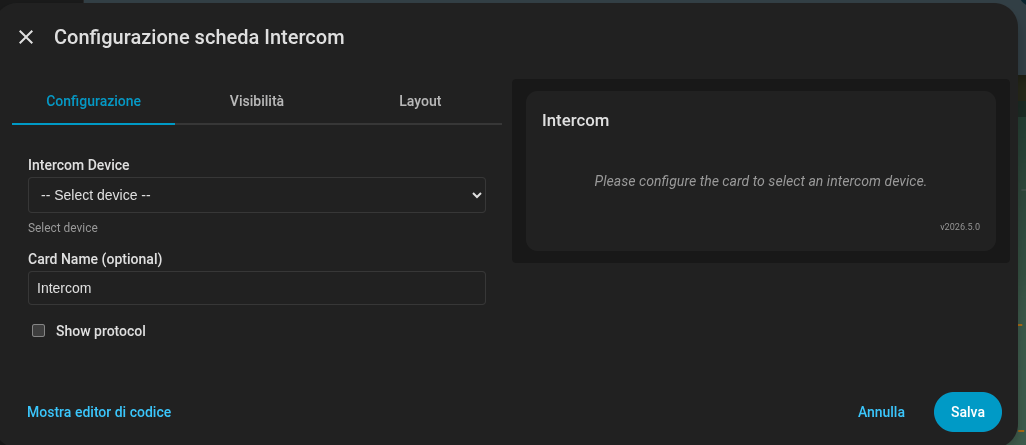
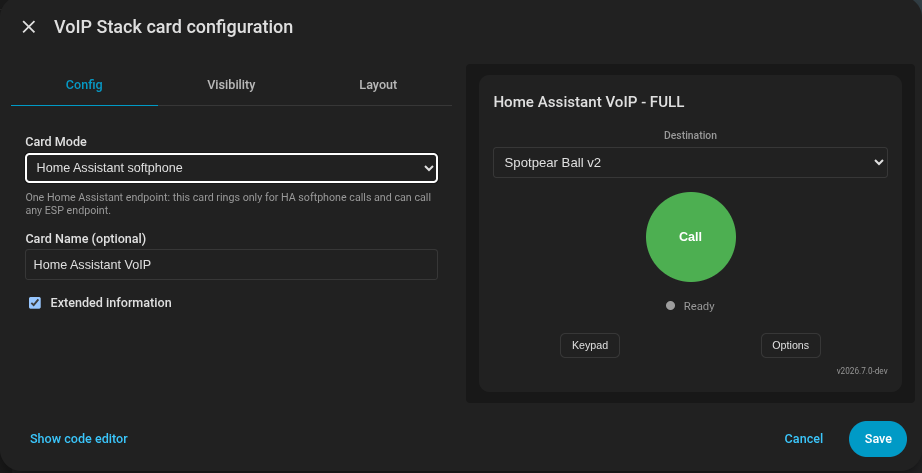
Polish VoIP services and setup docs

diff --git a/esphome/components/voip_stack/__init__.py b/esphome/components/voip_stack/__init__.py
@@ -63,7 +63,6 @@ CONF_REASON = "reason"
 
 # SIP signaling transport selection. RTP media is always UDP.
 CONF_TRANSPORT = "transport"
-CONF_SIP_TRANSPORT = "sip_transport"
 CONF_SIP_PORT = "sip_port"
 CONF_RTP_PORT = "rtp_port"
 CONF_USE_HA_AS_FIRST_CONTACT = "use_ha_as_first_contact"
@@ -407,7 +406,6 @@ PHONEBOOK_CONTACT_SCHEMA = cv.Schema(
         cv.Optional(CONF_PORT, default=5060): cv.port,
         cv.Optional(CONF_RTP_PORT_ACTION, default=40000): cv.port,
         cv.Optional(CONF_TRANSPORT): cv.one_of(TRANSPORT_UDP, TRANSPORT_TCP, lower=True),
-        cv.Optional(CONF_SIP_TRANSPORT): cv.one_of(TRANSPORT_UDP, TRANSPORT_TCP, lower=True),
     }
 )
 
@@ -428,7 +426,7 @@ def _static_contact_entry(contact, default_transport: str) -> str:
     ip = contact.get(CONF_IP, "")
     if not ip:
         return name
-    transport = contact.get(CONF_TRANSPORT) or contact.get(CONF_SIP_TRANSPORT) or default_transport
+    transport = contact.get(CONF_TRANSPORT) or default_transport
     transport = "sip_tcp" if transport == TRANSPORT_TCP else "sip_udp"
     return f"{name}|{ip}|{contact[CONF_PORT]}|{contact[CONF_RTP_PORT_ACTION]}|{transport}"
 
@@ -1170,7 +1168,6 @@ ADD_CONTACT_SCHEMA = cv.Schema(
         cv.Optional(CONF_PORT, default=5060): cv.templatable(cv.port),
         cv.Optional(CONF_RTP_PORT_ACTION, default=40000): cv.templatable(cv.port),
         cv.Optional(CONF_TRANSPORT): cv.templatable(cv.one_of(TRANSPORT_UDP, TRANSPORT_TCP, lower=True)),
-        cv.Optional(CONF_SIP_TRANSPORT): cv.templatable(cv.one_of(TRANSPORT_UDP, TRANSPORT_TCP, lower=True)),
     }
 )
 
@@ -1198,19 +1195,18 @@ async def _add_contact_action_to_code(config, action_id, template_arg, args):
     cg.add(var.set_port(templ_port))
     templ_rtp_port = await cg.templatable(config[CONF_RTP_PORT_ACTION], args, cg.uint16)
     cg.add(var.set_rtp_port(templ_rtp_port))
-    if CONF_TRANSPORT in config or CONF_SIP_TRANSPORT in config:
-        templ_transport = await cg.templatable(config.get(CONF_TRANSPORT, config.get(CONF_SIP_TRANSPORT)), args, cg.std_string)
+    if CONF_TRANSPORT in config:
+        templ_transport = await cg.templatable(config[CONF_TRANSPORT], args, cg.std_string)
         cg.add(var.set_sip_transport(templ_transport))
     return var
 
 
-for _add_contact_action_name in ("voip_stack.add_contact", "voip_stack.add_contacts"):
-    automation.register_action(
-        _add_contact_action_name,
-        AddContactAction,
-        cv.All(ADD_CONTACT_SCHEMA, _validate_add_contact_action),
-        synchronous=True,
-    )(_add_contact_action_to_code)
+automation.register_action(
+    "voip_stack.add_contact",
+    AddContactAction,
+    cv.All(ADD_CONTACT_SCHEMA, _validate_add_contact_action),
+    synchronous=True,
+)(_add_contact_action_to_code)
 
 _register_templated_action(
     "voip_stack.remove_contact",

diff --git a/custom_components/voip_stack/phonebook_services.py b/custom_components/voip_stack/phonebook_services.py
@@ -36,16 +36,12 @@ def build_phonebook_service_handlers(
             key: metadata_value(key)
             for key in (
                 "transport",
-                "sip_transport",
-                "signaling_transport",
-                "sip_port",
                 "rtp_port",
                 "tx_rate",
                 "rx_rate",
                 "tx_formats",
                 "rx_formats",
                 "max_payload_bytes",
-                "audio_mode",
             )
             if key in call.data and metadata_value(key) is not None
         }
@@ -53,7 +49,7 @@ def build_phonebook_service_handlers(
         sip_uri = str(call.data.get("sip_uri") or "").strip()
         extension = str(call.data.get("extension") or "").strip()
         number = str(call.data.get("number") or "").strip()
-        port = int(call.data.get("port") or call.data.get("sip_port") or 0)
+        port = int(call.data.get("port") or 0)
         entry = RosterEntry(
             id=entry_id,
             name=name,

diff --git a/custom_components/voip_stack/services.py b/custom_components/voip_stack/services.py
@@ -95,16 +95,12 @@ async def async_register_services(hass: HomeAssistant, handlers: dict[str, objec
             vol.Optional("ha_bridge", default=False): cv.boolean,
             vol.Optional("transport", default=""): vol.Any("", vol.In(["tcp", "udp"])),
             vol.Optional("port"): vol.Coerce(int),
-            vol.Optional("sip_transport", default=""): vol.Any("", vol.In(["tcp", "udp"])),
-            vol.Optional("signaling_transport", default=""): vol.Any("", vol.In(["tcp", "udp"])),
-            vol.Optional("sip_port"): vol.Coerce(int),
             vol.Optional("rtp_port"): vol.Coerce(int),
             vol.Optional("tx_rate"): vol.Any("auto", vol.Coerce(int)),
             vol.Optional("rx_rate"): vol.Any("auto", vol.Coerce(int)),
             vol.Optional("tx_formats"): vol.Any(cv.string, [cv.string]),
             vol.Optional("rx_formats"): vol.Any(cv.string, [cv.string]),
             vol.Optional("max_payload_bytes"): vol.Coerce(int),
-            vol.Optional("audio_mode", default=""): cv.string,
         },
         extra=vol.PREVENT_EXTRA,
     )

diff --git a/esphome/components/voip_stack/voip_settings.cpp b/esphome/components/voip_stack/voip_settings.cpp
@@ -134,9 +134,6 @@ bool parse_json_roster_slot(const cJSON *obj, JsonRosterSlot *slot) {
     slot->sip_transport = Phonebook::trim(json_metadata_string(obj, "transport"));
   }
   if (slot->sip_transport.empty()) {
-    slot->sip_transport = Phonebook::trim(json_metadata_string(obj, "signaling_transport"));
-  }
-  if (slot->sip_transport.empty()) {
     slot->sip_transport = Phonebook::trim(json_string(obj, "sip_transport"));
   }
   if (slot->sip_transport.empty()) {

diff --git a/README.md b/README.md
@@ -57,6 +57,20 @@ _Runtime demo: browser softphone, ESP call state and audio controls moving toget
 | Incoming external calls | Register a provider/PBX trunk. | External calls can ring HA, follow DTMF routing, or be forwarded to ESPs/local contacts. |
 | Voice Assistant calling | Enable the optional VoIP Stack Assist intents. | Satellites can call contacts, answer, decline or hang up by voice. |
 
+### One-Way Audio Endpoints
+
+VoIP Stack also supports intentionally one-way audio devices:
+
+- **mic-only** endpoints send microphone audio but do not play remote audio;
+- **speaker-only** endpoints play incoming audio but do not transmit a
+  microphone stream;
+- **control-only** endpoints keep SIP signaling, call state and phonebook
+  behavior without media.
+
+This is useful for boards with only one audio direction populated, external
+amplifiers, paging speakers, monitor microphones or custom installations where
+full-duplex hardware is not available.
+
 ## Table of Contents
 
 - [What Can You Build With It?](#what-can-you-build-with-it)
@@ -318,10 +332,11 @@ Runtime ESP automations can still mutate the local dial plan when needed:
 
 ```yaml
 on_press:
-  - voip_stack.add_contacts:
+  - voip_stack.add_contact:
       id: phone
       name: "Temporary Desk"
       ip: "192.168.1.55"
+      port: 5060
       transport: udp
 ```
 
@@ -407,7 +422,28 @@ _After restart, add the VoIP Stack integration from Home Assistant Settings._
 
 ![VoIP Stack config flow](docs/images/voip-stack-config-flow.png)
 
-_The config flow sets the HA SIP/RTP ports and optional features._
+_The config flow sets the HA SIP/RTP ports, local VoIP features and optional trunk routing._
+
+Recommended first setup:
+
+- **SIP port**: keep `5060` unless another SIP service already uses it. HA
+  listens on both SIP/UDP and SIP/TCP on this port.
+- **RTP port**: keep `40000` unless that UDP range conflicts with another
+  service. HA uses it as the base for softphone and bridge media.
+- **Advertise host**: leave empty on a normal LAN. Set it only when HA must
+  publish a specific reachable IP/host, for example LXC, Docker, VPN,
+  multihomed hosts or routed networks.
+- **Assist intents**: enable if you want Home Assistant Assist phrases such as
+  call, answer, decline and hang up.
+- **Debug mode**: keep disabled for normal use. Enable only while collecting
+  SIP/RTP diagnostics.
+- **Trunk enabled**: leave disabled unless you want HA to register to a
+  provider/PBX account for external inbound/outbound calls.
+
+When trunk is enabled, the next step asks for provider/PBX credentials. The
+DTMF timeout controls incoming external calls: `0` skips DTMF collection and
+rings HA immediately; a value from `1` to `10` seconds lets callers dial a
+route such as `101` before HA falls back to the default target.
 
 The integration automatically registers the Lovelace card, no manual frontend setup needed.
 
@@ -712,11 +748,13 @@ data:
   reason: "DND"
 ```
 
-Contact mutation is not exposed as HA-callable ESPHome services in the standard
-packages. Use `sensor.voip_phonebook` for normal sync, or call the native
-`voip_stack.set_contacts` / `add_contact` / `remove_contact` /
-`flush_contacts` actions from YAML scripts when you intentionally need local
-manual mutation.
+The standard packages also expose ESPHome native API actions such as
+`esphome.<slug>_add_contact`, `esphome.<slug>_remove_contact`,
+`esphome.<slug>_set_contacts`, `esphome.<slug>_flush_contacts` and
+`esphome.<slug>_update_contacts`. Those mutate only that ESP's local phonebook
+mirror and are meant for offline devices, diagnostics or custom YAML logic.
+For normal installs, manage the central roster with HA `voip_stack.*`
+phonebook services and let HA push the canonical JSON to every online ESP.
 
 See [docs/PHONEBOOK_PROTOCOL.md](docs/PHONEBOOK_PROTOCOL.md) for the full contract.
 

diff --git a/esphome/components/voip_stack/README.md b/esphome/components/voip_stack/README.md
@@ -207,12 +207,15 @@ contact is a logical target that can later be upgraded by the HA roster or
 routed through HA.
 
 Runtime YAML automations can mutate the local dial plan with
-`voip_stack.add_contact`, `voip_stack.add_contacts`,
-`voip_stack.remove_contact`, `voip_stack.set_contacts` and
-`voip_stack.flush_contacts`. Use those for custom local behavior only; HA
+`voip_stack.add_contact`, `voip_stack.remove_contact`,
+`voip_stack.set_contacts` and `voip_stack.flush_contacts`. The standard
+packages expose those through ESPHome native API actions named
+`esphome.<slug>_add_contact`, `esphome.<slug>_remove_contact`,
+`esphome.<slug>_set_contacts`, `esphome.<slug>_flush_contacts` and
+`esphome.<slug>_update_contacts`. Use them for custom local behavior only; HA
 central contacts should be managed with HA `voip_stack.add_contact`,
-`voip_stack.remove_contact`, `voip_stack.set_contacts`, `voip_stack.clear_contacts`
-and `voip_stack.push_phonebook` services.
+`voip_stack.remove_contact`, `voip_stack.set_contacts`,
+`voip_stack.clear_contacts` and `voip_stack.push_phonebook` services.
 
 Each ESP publishes an `voip_endpoint` text sensor. Home Assistant builds the
 central `sensor.voip_phonebook` from those endpoints and adds itself as the

diff --git a/docs/PHONEBOOK_PROTOCOL.md b/docs/PHONEBOOK_PROTOCOL.md
@@ -27,9 +27,10 @@ Runtime actions use the same model:
 
 ```yaml
 on_press:
-  - voip_stack.add_contacts:
+  - voip_stack.add_contact:
       name: Kitchen
       ip: 192.168.1.42
+      port: 5060
       transport: udp
 ```
 
@@ -102,6 +103,14 @@ Central roster services:
   online ESP devices.
 - `voip_stack.export_phonebook`: emit the current roster as an HA event for
   diagnostics/backup.
+
+ESPHome also exposes native API actions such as
+`esphome.<slug>_add_contact`, `esphome.<slug>_remove_contact`,
+`esphome.<slug>_set_contacts`, `esphome.<slug>_flush_contacts` and
+`esphome.<slug>_update_contacts`. These are local ESP actions: they change only
+that device's mirror/manual entries. In HA-managed installs, prefer the central
+`voip_stack.*` services above and let HA push `sensor.voip_phonebook` to the
+devices.
 
 Local softphone accounts are created with `voip_stack.create_account`.
 The `username` becomes the SIP username and central roster ID. If `password` is

diff --git a/docs/reference.md b/docs/reference.md
@@ -42,10 +42,18 @@ Runtime actions:
 - `voip_stack.answer_call`
 - `voip_stack.decline_call`
 - `voip_stack.add_contact`
-- `voip_stack.add_contacts`
 - `voip_stack.remove_contact`
 - `voip_stack.set_contacts`
 - `voip_stack.set_roster_json`
+
+ESPHome native API actions generated by the standard packages include
+`esphome.<slug>_add_contact`, `esphome.<slug>_remove_contact`,
+`esphome.<slug>_set_contacts`, `esphome.<slug>_flush_contacts`,
+`esphome.<slug>_update_contacts`, `esphome.<slug>_set_roster_json`,
+`esphome.<slug>_start_call` and `esphome.<slug>_decline_call`.
+The contact actions mutate only that ESP's local mirror. Use HA
+`voip_stack.add_contact` / `remove_contact` / `set_contacts` for the central
+phonebook.
 
 Static and runtime contacts accept `transport: udp|tcp` when one contact
 must use a different signaling transport from the phone's own `transport`.